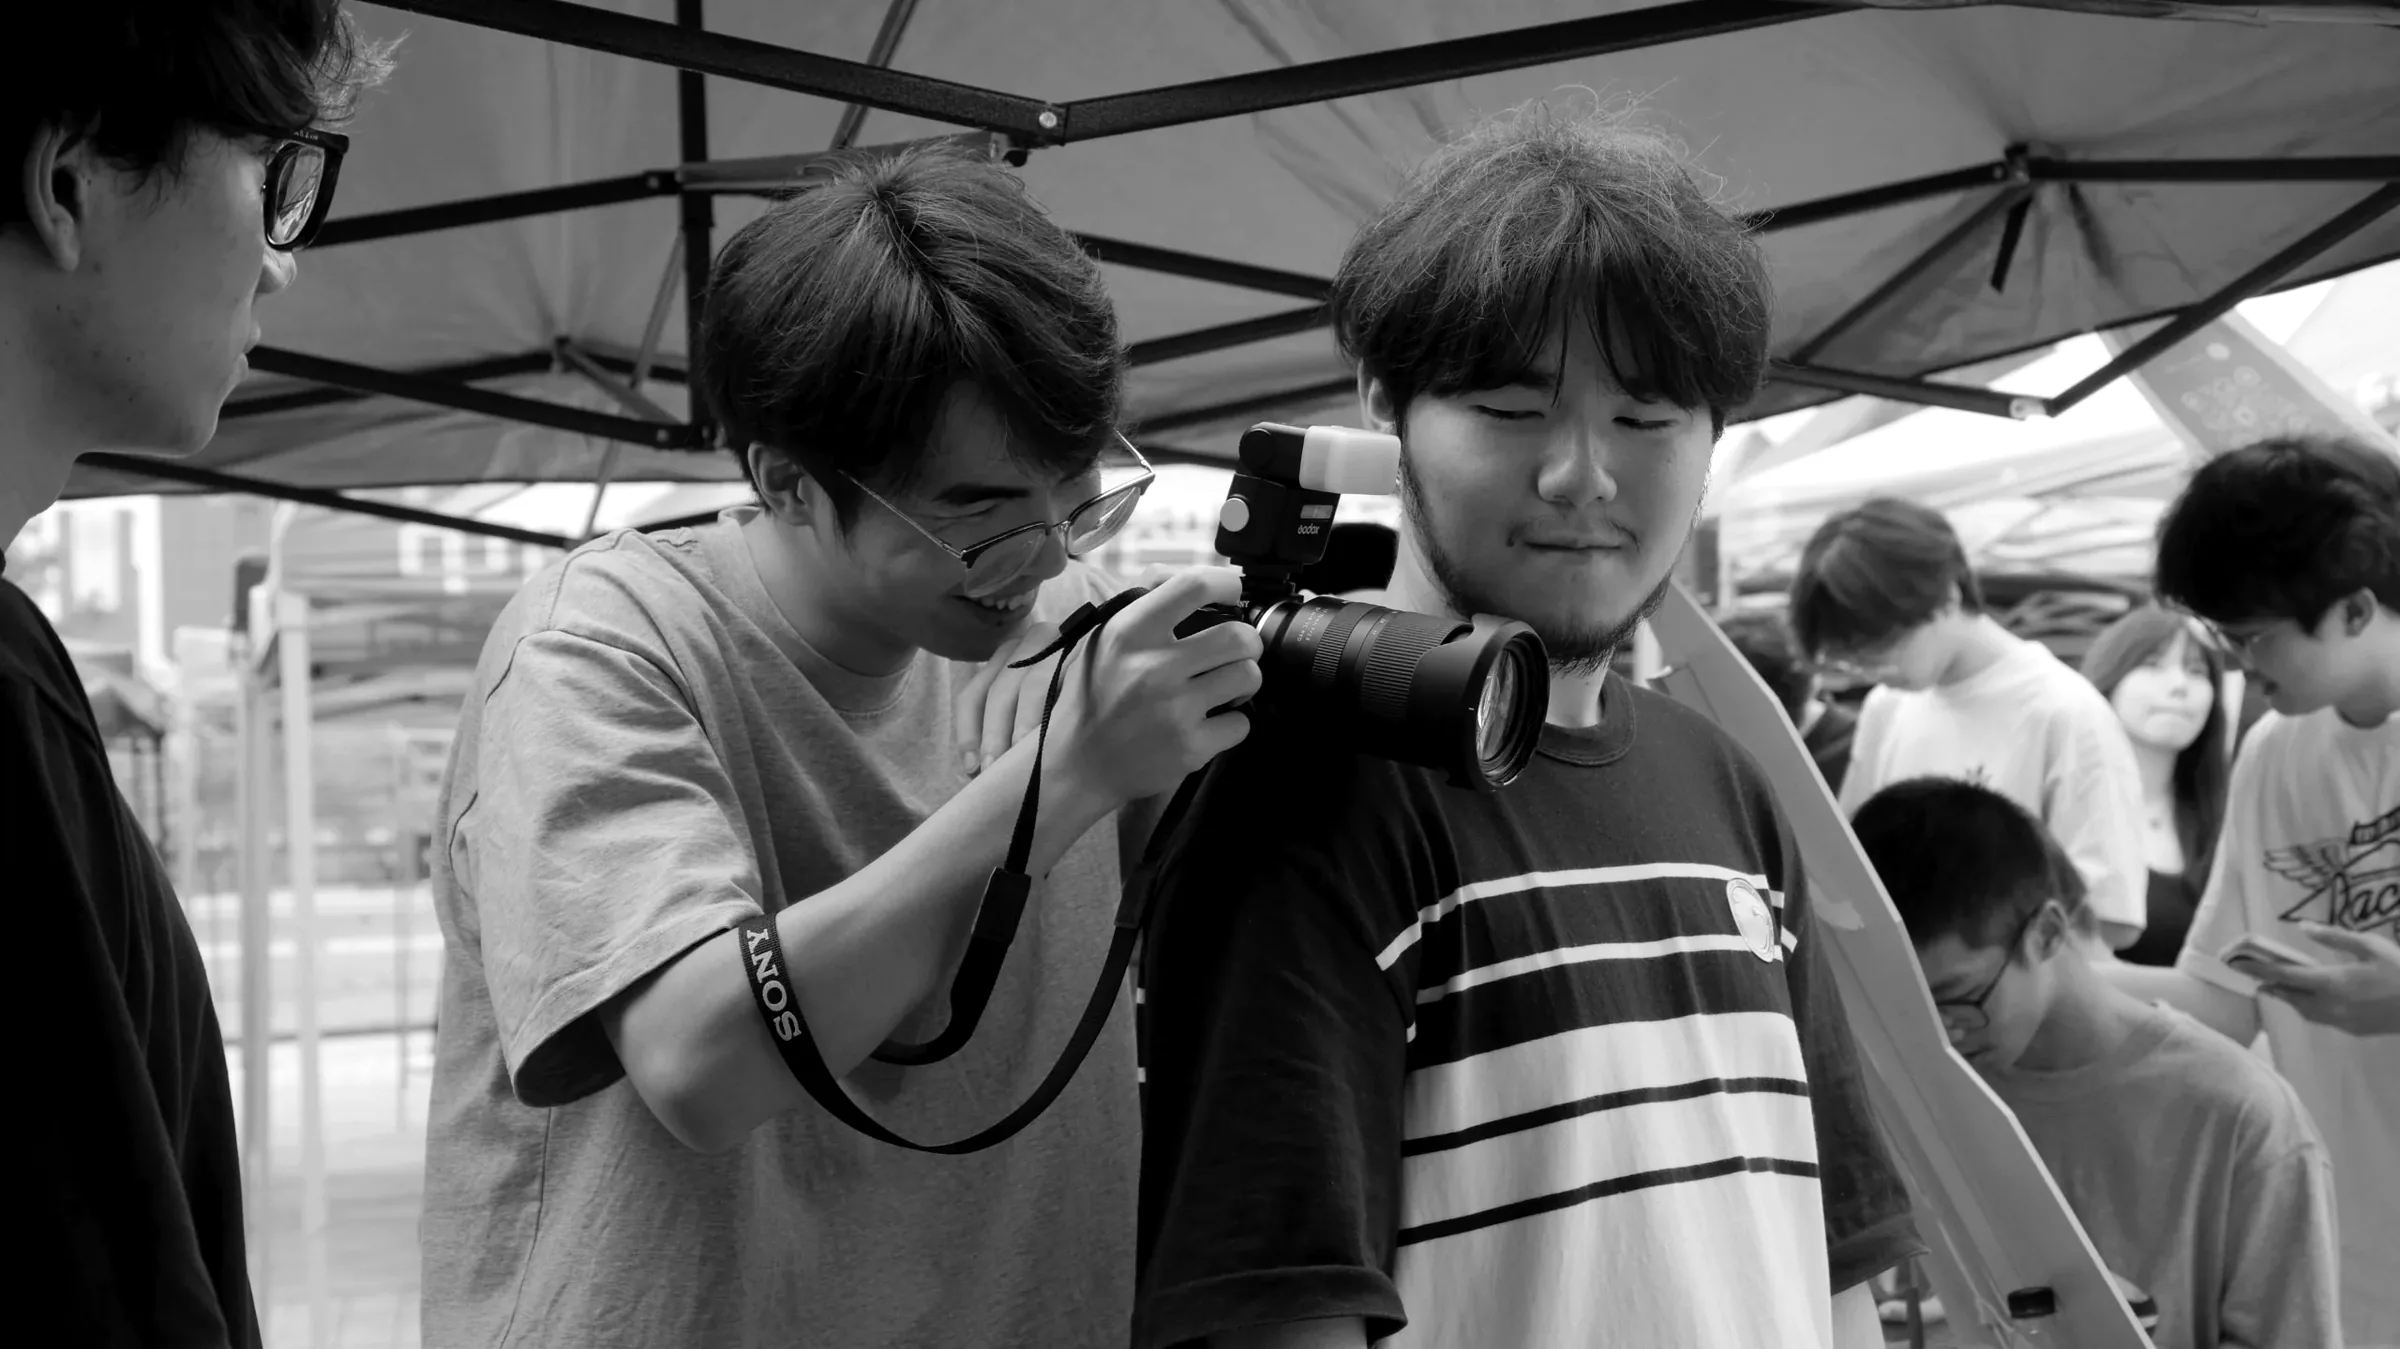
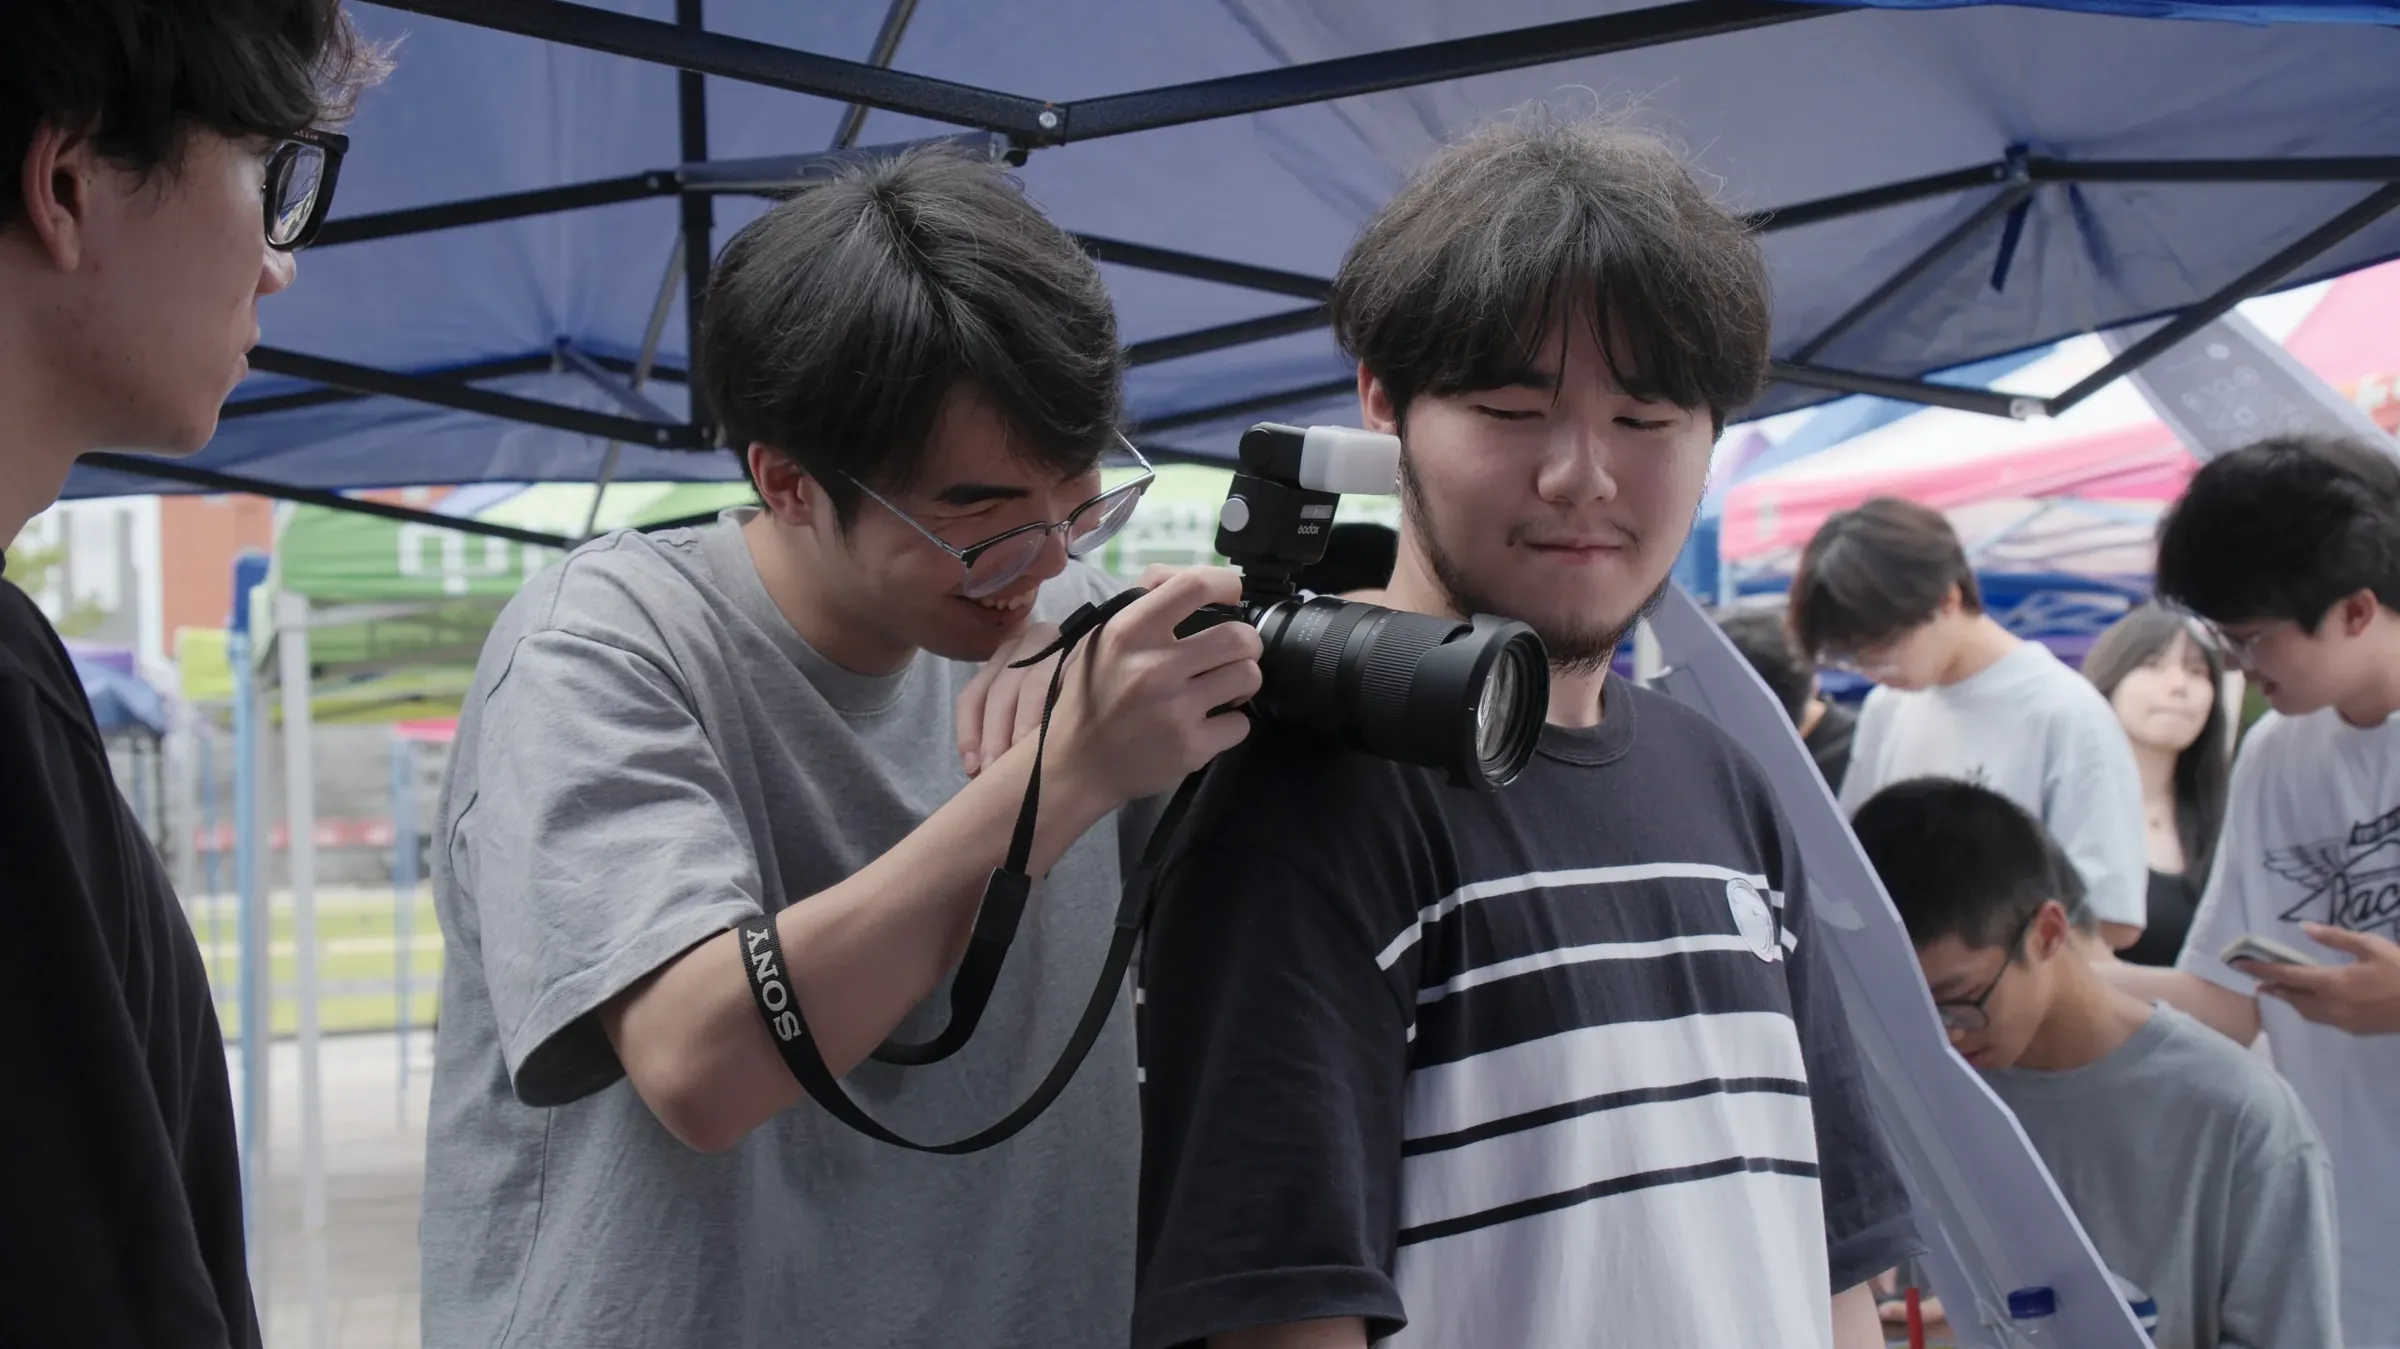
feat(od): use color photos, add timeline, message wall and kiosk mode

diff --git a/src/answering-machine.ts b/src/answering-machine.ts
@@ -359,6 +359,14 @@ export function mountMachine(root: HTMLElement) {
   }
 
   start.addEventListener("click", begin)
+  const kiosk = "kiosk" in root.dataset
+  if (kiosk) {
+    root.style.cursor = "none"
+    addEventListener("pointerdown", () => {
+      void document.documentElement.requestFullscreen?.().catch(() => {})
+      begin()
+    }, { once: true })
+  }
   replay.addEventListener("click", () => {
     audio.currentTime = 0
     void audio.play()
@@ -400,6 +408,7 @@ export function mountMachine(root: HTMLElement) {
   audio.addEventListener("ended", () => {
     root.dataset.state = "ended"
     finale.hidden = false
+    if (kiosk) setTimeout(() => replay.click(), 20_000)
   })
   audio.addEventListener("play", () => {
     root.dataset.state = "playing"

diff --git a/src/od.ts b/src/od.ts
@@ -1,7 +1,6 @@
 export const od = {
   name: "陈正浩",
-  alias: "Orange Dog",
-  years: "2023–2026",
+  age: 22,
 }
 
 // Seconds into public/od/messages.m4a, measured from the recording.
